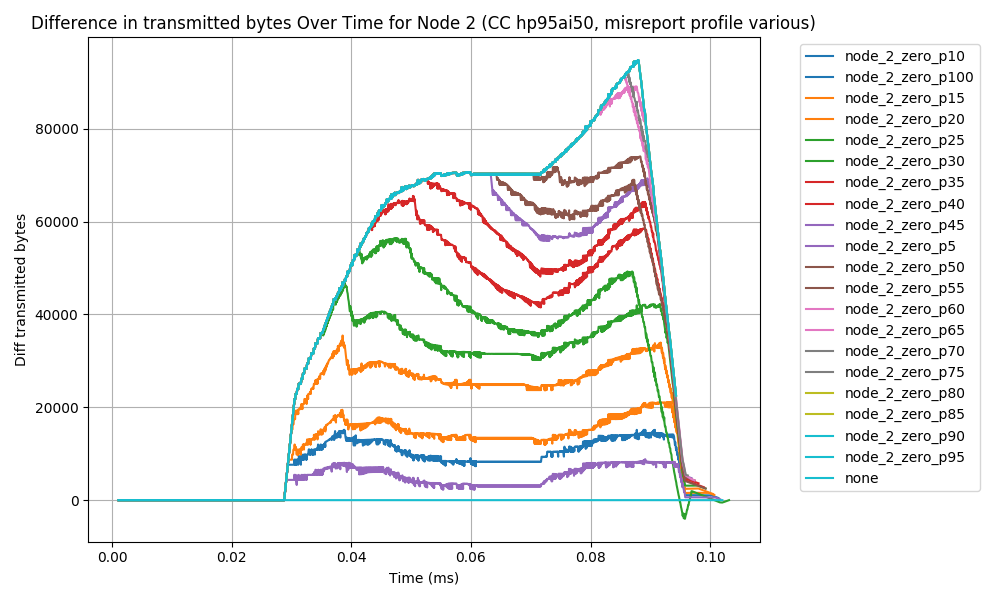
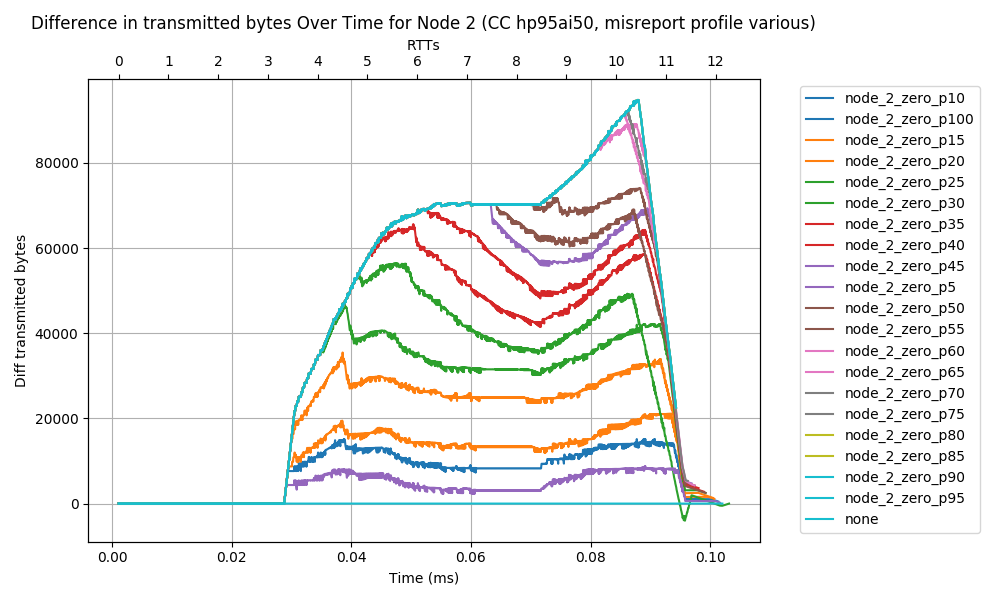
Add secondary x-axis with RTT steps

diff --git a/simulation/run_prob_matrix.py b/simulation/run_prob_matrix.py
@@ -3,7 +3,7 @@ import os
 import subprocess
 import sys
 
-from typing import List
+from typing import List, Optional
 
 script_dir = os.path.dirname(os.path.abspath(__file__))
 
@@ -59,15 +59,17 @@ def run_hpcc_simulation(misrep_file_name, flow, topo):
     except subprocess.CalledProcessError as e:
         print("Error:", e)
 
-def run_stacked_graph_visualizations(node_num, flow, topo, misrep_file_names, out_label):
-    # type: (int, str, str, List[str], str) -> None
+def run_stacked_graph_visualizations(node_num, flow, topo, misrep_file_names, out_label, rtt_ns=None):
+    # type: (int, str, str, List[str], str, Optional[int]) -> None
 
     # python stacked_tx_bytes_graph.py \
     # --node=2 \
     # --misrep_profiles=node_2_triple,node_2_zero,node_2_zero_p50,node_2_add \
     # --flow=mini_flow \
     # --topo=mini_topology \
-    # --cc_algo=hp95ai50
+    # --cc_algo=hp95ai50 \
+    # --rtt_ns=8320 \
+    # --label=zero_p_step5
     for py_script in [STACKED_GRAPH_PY_SCRIPT, STACKED_DIFF_GRAPH_PY_SCRIPT]:
         misrep_files_str = ','.join(misrep_file_names)
         command = [
@@ -79,6 +81,8 @@ def run_stacked_graph_visualizations(node_num, flow, topo, misrep_file_names, ou
             '--misrep_profiles', misrep_files_str,
             '--out_label', out_label,
         ]
+        if rtt_ns is not None:
+            command.extend(['--rtt_ns', str(rtt_ns)])
 
         try:
             # Run command and capture output
@@ -94,6 +98,7 @@ if __name__ == '__main__':
     parser.add_argument('--topo', dest='topo', action='store', default='mini_topology', help="the name of the topology file")
     parser.add_argument('--behavior', dest='behavior', action='store', required=True, help="misreporting behavior (TRIPLE, ADD, ZERO, etc.)")
     parser.add_argument('--step', dest='step', action='store', type=int, default=50, help="the probability step size")
+    parser.add_argument('--rtt_ns', dest='rtt_ns', action='store', type=int, default=None, help="RTT time (ns) for x-axis labels")
     parser.add_argument('--out_label', dest='out_label', action='store', required=True, help="label for output PNG file")
     parser.add_argument('--should_skip_sims', dest='should_skip_sims', action='store_true', help="specify to skip sims and only generate graphs")
     args = parser.parse_args()
@@ -105,6 +110,7 @@ if __name__ == '__main__':
     assert behavior_config in VALID_BEHAVIORS
     behavior_label = behavior_config.lower()
     step = args.step
+    rtt_ns = args.rtt_ns
     out_label = args.out_label
     should_skip_sims = args.should_skip_sims
     
@@ -135,4 +141,5 @@ if __name__ == '__main__':
         topo=topo,
         misrep_file_names=misrep_files,
         out_label=out_label,
+        rtt_ns=rtt_ns,
     )

diff --git a/analysis/graph/graph_helpers.py b/analysis/graph/graph_helpers.py
@@ -96,25 +96,44 @@ def plot_data_points(times, data_points, xlabel, ylabel, title, out_file_name):
     plt.close()
 
 # Plot multiple data points over time in stacks
-def plot_stacked_data_points(data_points_li, xlabel, ylabel, title, out_file_name):
-    # type: (List[Tuple[str, List[int], List[int]]], str, str, str, str) -> None
+def plot_stacked_data_points(
+    data_points_li,
+    xlabel,
+    ylabel,
+    title,
+    out_file_name,
+    x_axis_step=None,
+):
+    # type: (List[Tuple[str, List[int], List[int]]], str, str, str, str, Optional[int]) -> None
     
     # (experiment_name, timestamps, data_points)
     data_points_li.sort(key=lambda x: x[0])
-    plt.figure(figsize=(10, 6))
+    fig = plt.figure(figsize=(10, 6))
+    ax1 = fig.subplots()
     
     cmap = plt.get_cmap('tab10')
     colors = cmap(np.linspace(0, 1, len(data_points_li)))
     for idx, (label, times, data_points) in enumerate(data_points_li):
-        plt.plot(times, data_points, color=colors[idx % len(colors)], label=label)
-    plt.xlabel(xlabel)
-    plt.ylabel(ylabel)
-    plt.title(title)
-    plt.grid(True)
-    plt.legend(bbox_to_anchor=(1.05, 1), loc='upper left')
-    plt.tight_layout()
+        ax1.plot(times, data_points, color=colors[idx % len(colors)], label=label)
+    ax1.set_xlabel(xlabel)
+    ax1.set_ylabel(ylabel)
+    ax1.set_title(title, y=1.09)
+    ax1.grid(True)
+    ax1.legend(bbox_to_anchor=(1.05, 1), loc='upper left')
+
+    if x_axis_step is not None:
+        ax2 = ax1.twiny()
+        ax2.set_xlim(ax1.get_xlim())
+        min_x = min(min(times) for _, times, _ in data_points_li)
+        max_x = max(max(times) for _, times, _ in data_points_li)
+        rtt_tick_locs = np.arange(min_x, max_x, x_axis_step)
+        ax2.set_xticks(rtt_tick_locs)
+        ax2.set_xticklabels(range(len(rtt_tick_locs)))
+        ax2.set_xlabel('RTTs')
 
     # Save the plot as a PNG file
     print('saving graph to {}'.format(out_file_name))
-    plt.savefig(out_file_name)
+    
+    fig.tight_layout()
+    fig.savefig(out_file_name)
     plt.close()

diff --git a/analysis/graph/stacked_diff_tx_bytes_graph.py b/analysis/graph/stacked_diff_tx_bytes_graph.py
@@ -36,6 +36,7 @@ if __name__ == '__main__':
     parser.add_argument('--flow', dest='flow', action='store', default='mini_flow', help="the name of the flow file")
     parser.add_argument('--topo', dest='topo', action='store', default='mini_topology', help="the name of the topology file")
     parser.add_argument('--cc_algo', dest='cc_algo', action='store', default='hp95ai50', help="CC algo with params")
+    parser.add_argument('--rtt_ns', dest='rtt_ns', action='store', type=int, default=None, help="RTT time (ns) for x-axis labels")
     parser.add_argument('--out_label', dest='out_label', action='store', required=True, help="label for output PNG file")
     args = parser.parse_args()
 
@@ -49,6 +50,7 @@ if __name__ == '__main__':
 
     flow=args.flow
     cc_algo = args.cc_algo
+    rtt_ns = args.rtt_ns
     out_label = args.out_label
     # [label, times, tx_bytes]
     data_points_li = []
@@ -99,4 +101,5 @@ if __name__ == '__main__':
         ylabel='Diff transmitted bytes',
         title=graph_title,
         out_file_name=out_png_name,
+        x_axis_step=rtt_ns / 1e6 if rtt_ns is not None else None
     )

diff --git a/analysis/graph/stacked_tx_bytes_graph.py b/analysis/graph/stacked_tx_bytes_graph.py
@@ -46,6 +46,7 @@ if __name__ == '__main__':
     parser.add_argument('--flow', dest='flow', action='store', default='mini_flow', help="the name of the flow file")
     parser.add_argument('--topo', dest='topo', action='store', default='mini_topology', help="the name of the topology file")
     parser.add_argument('--cc_algo', dest='cc_algo', action='store', default='hp95ai50', help="CC algo with params")
+    parser.add_argument('--rtt_ns', dest='rtt_ns', action='store', type=int, default=None, help="RTT time (ns) for x-axis labels")
     parser.add_argument('--out_label', dest='out_label', action='store', required=True, help="label for output PNG file")
     args = parser.parse_args()
 
@@ -60,6 +61,7 @@ if __name__ == '__main__':
 
     flow=args.flow
     cc_algo = args.cc_algo
+    rtt_ns = args.rtt_ns
     out_label = args.out_label
     # [label, times, tx_bytes]
     data_points_li = []
@@ -92,4 +94,5 @@ if __name__ == '__main__':
         ylabel='Transmitted bytes',
         title=graph_title,
         out_file_name=out_png_name,
+        x_axis_step=rtt_ns / 1e6 if rtt_ns is not None else None
     )
